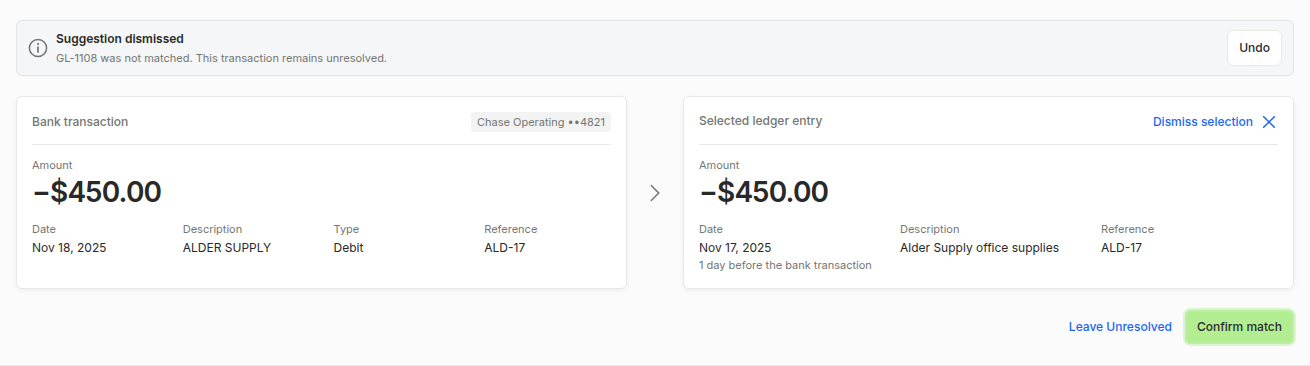
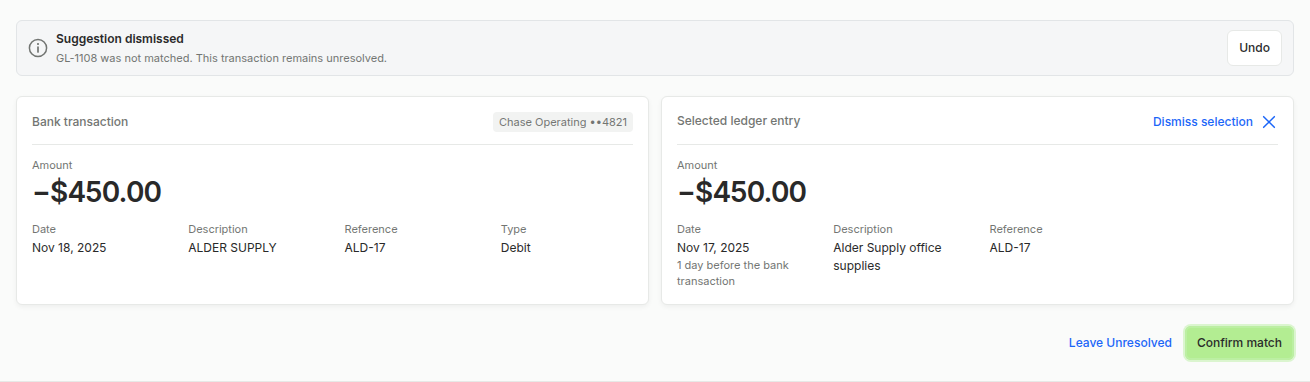
Remove the arrow between expanded-row cards and align their fields
The chevron column between the bank and ledger cards is gone in every
expanded state; the two cards sit 12 px apart. Side by side, record
cards share row tracks through a subgrid, so the amount, date,
description and reference line up across both cards, and the bank card
lists Reference before Type to match the ledger card. Stacked layouts
keep the source card first. Row expand and collapse chevrons are
unchanged.

Claude-Session: https://claude.ai/code/session_01SjmuwsjrTUXEVeGEdoK4rk

diff --git a/prototype/src/ui/CaseDetail.tsx b/prototype/src/ui/CaseDetail.tsx
@@ -33,8 +33,9 @@ const SOURCE_LABEL = { suggestion: 'from the suggestion', search: 'from search',
 
 /**
  * Expanded detail inside the register row (49:952, 38:6667, 38:7064, 51:1040): 20 px top and bottom, 16 px sides,
- * 20 px between the notice, the comparison and the action footer. The comparison is two 612 px cards with a 32 px
- * arrow column and 12 px gaps; the footer right-aligns Leave Unresolved (link) and the primary action.
+ * 20 px between the notice, the comparison and the action footer. The comparison is two equal cards 12 px apart
+ * (Figma's arrow column between them is removed at Yirang's request); the footer right-aligns Leave Unresolved
+ * (link) and the primary action.
  */
 export function CaseDetail({ recon, reviewCase: c, onCollapse, announce }: CaseDetailProps) {
   const { state, dispatch, setDraft } = recon
@@ -291,12 +292,12 @@ export function CaseDetail({ recon, reviewCase: c, onCollapse, announce }: CaseD
 
   const leftCard =
     origin.kind === 'bank' ? (
-      <Card labelledBy={`${idPrefix}-bank`} title="Bank transaction" chip={ACCOUNT.name}>
+      <Card record labelledBy={`${idPrefix}-bank`} title="Bank transaction" chip={ACCOUNT.name}>
         <Amount value={origin.amount} />
         <Fields fields={recordFields(origin, undefined)} />
       </Card>
     ) : (
-      <Card labelledBy={`${idPrefix}-ledger`} title="Ledger entry" chip={origin.entryId}>
+      <Card record labelledBy={`${idPrefix}-ledger`} title="Ledger entry" chip={origin.entryId}>
         <Amount value={origin.amount} />
         <Fields fields={recordFields(origin, undefined, [{ label: 'Counterparty', value: origin.counterparty }])} />
       </Card>
@@ -305,14 +306,14 @@ export function CaseDetail({ recon, reviewCase: c, onCollapse, announce }: CaseD
   let rightCard: React.ReactNode = null
   if (c.status === 'auto-matched' && c.ledger) {
     rightCard = (
-      <Card labelledBy={`${idPrefix}-auto`} title="Ledger entry" chip={c.ledger.entryId}>
+      <Card record labelledBy={`${idPrefix}-auto`} title="Ledger entry" chip={c.ledger.entryId}>
         <Amount value={c.ledger.amount} />
         <Fields fields={recordFields(c.ledger, c.bank, [{ label: 'Match status', value: 'Auto-matched · not confirmed' }])} />
       </Card>
     )
   } else if (c.status === 'suggested' && c.ledger) {
     rightCard = (
-      <Card labelledBy={`${idPrefix}-suggested`} title="Suggested ledger entry" chip={c.ledger.entryId} chipTone="ai">
+      <Card record labelledBy={`${idPrefix}-suggested`} title="Suggested ledger entry" chip={c.ledger.entryId} chipTone="ai">
         <Amount value={c.ledger.amount} />
         <Fields fields={recordFields(c.ledger, c.bank, [{ label: 'Match status', value: 'Suggested · not confirmed' }])} />
       </Card>
@@ -323,7 +324,7 @@ export function CaseDetail({ recon, reviewCase: c, onCollapse, announce }: CaseD
     const evidence = evidenceItem(c.outstanding.evidenceId)
     const category = TIMING_CATEGORIES.find((t) => t.value === c.outstanding!.category)?.label
     rightCard = (
-      <Card labelledBy={`${idPrefix}-evidence`} title="Outstanding evidence" chip={evidence?.reference}>
+      <Card record labelledBy={`${idPrefix}-evidence`} title="Outstanding evidence" chip={evidence?.reference}>
         <Amount value={evidence?.amount ?? 0} />
         <Fields
           fields={[
@@ -351,6 +352,7 @@ export function CaseDetail({ recon, reviewCase: c, onCollapse, announce }: CaseD
     if (draft.mode === 'selected' && selected) {
       rightCard = (
         <Card
+          record
           labelledBy={`${idPrefix}-selected`}
           title={`Selected ${otherNoun}`}
           headerAction={
@@ -467,9 +469,6 @@ export function CaseDetail({ recon, reviewCase: c, onCollapse, announce }: CaseD
       {notices.length > 0 && <div className={styles.notices}>{notices}</div>}
       <div className={styles.comparison}>
         {leftCard}
-        <div className={styles.arrow} aria-hidden="true">
-          <Icon name="chevron-right" size={24} />
-        </div>
         {rightCard}
       </div>
       {(primary || secondary || canLeave) && (
@@ -503,7 +502,7 @@ function MatchedCard({ idPrefix, ledger, bank }: { idPrefix: string; ledger: Led
   const created = !!ledger.generatedFrom
   const amount = Math.abs(ledger.amount)
   return (
-    <Card labelledBy={`${idPrefix}-matched`} title={created ? 'Created ledger entry' : 'Matched ledger entry'} chip={ledger.entryId}>
+    <Card record labelledBy={`${idPrefix}-matched`} title={created ? 'Created ledger entry' : 'Matched ledger entry'} chip={ledger.entryId}>
       <Amount value={ledger.amount} />
       <Fields fields={recordFields(ledger, bank, created ? [] : [{ label: 'Match status', value: 'Confirmed' }])} />
       {created && (

diff --git a/src/showcase/flags.ts b/src/showcase/flags.ts
@@ -18,6 +18,7 @@ export const CONFLICTS = [
   'Reconcile data. The Figma frames show an eight-transaction November (Stripe payout to Monthly bank service fee) with a $220 or $15 difference and "John Glasgow" as the user. The prototype uses the PRD dataset instead (24 records, $320 initial difference) and Maya, because the PRD takes precedence. Five of the Figma rows are the PRD\'s background pairs. The PRD treated them as already reviewed; at Yirang\'s request (2026-10-04) they are Auto-matched items in the main table that still need review, so all 24 records count toward progress and completion.',
   'Reconcile register heading and counts. The register is titled "Transactions" (Figma and Yirang\'s 2026-10-04 design) and every tab count is a record count over the 24 original records, derived from the current state; generated entries are never counted. Tabs, in the design\'s order: All (24), Auto-matched (10), Suggested (6), Unmatched (14), Confirmed, Outstanding. Unmatched counts every record not yet confirmed or documented apart from auto-matched ones, so a suggested pair is two unmatched records and Suggested is a subset of Unmatched (Yirang, 2026-10-04; the PRD splits them 6 / 8). Auto-matched records are not unmatched, but they block completion until confirmed or dismissed. The status filter dropdown is removed because the design has only the search field and the tabs.',
   'Auto-matched pairs (Yirang\'s design, 2026-10-04). The five PRD background pairs are Auto-matched cases in the main table, with a blue "Auto-matched" pill (link ink on a new light-blue fill, #E3ECFC, sampled from the design; green stays for user-approved matches). The design\'s link glyph is not in the Figma icon set, so the pill shows its label only. The expanded row reuses the suggested-match layout: a plain "Automatically matched · Awaiting your review" heading, bank card left, "Ledger entry" card right, and Leave Unresolved, Dismiss suggestion and Confirm match with the same behavior and Undo. Dismissing makes both records Unmatched and searchable. The design\'s bank text "STRIPE PAYOUT" and reference STR-1103 are not adopted: the PRD gives these pairs no references, so the fixture descriptions stay as they were.',
+  'Expanded-row comparison (51:1049) without the arrow, at Yirang\'s request (2026-10-04). Figma puts a 32 px chevron column between the bank and ledger cards; it is removed in every expanded state, and the two cards sit 12 px apart at equal widths. Side by side, the cards share row tracks (CSS subgrid), so the amount, date, description and reference start at the same height and column in both cards, and the bank card lists Reference before Type (with "—" when there is none) to match the ledger card\'s order. Fields sit in four columns when each card has room for four 104 px fields and in two otherwise. The row expand and collapse chevrons are unchanged.',
   'Cleared balance with auto-matched pairs. Only confirmed matches clear, so an unconfirmed auto-matched pair no longer counts as cleared: the cleared balance starts at the $100,000.00 opening balance instead of the PRD\'s $109,870.00 and rises as pairs are confirmed. Statement closing ($109,650.00), book balance ($109,970.00) and the $320.00 difference are unchanged, and the finish is the same ($109,650.00 cleared, $0.00 difference) with 21 Confirmed and 3 Outstanding. A save completed before this change is reopened on load, with every decision kept and the reopening recorded in history.',
   'Suggested-match ledger memos. GL-1101 reads "ACH Northstar Hosting" and GL-1105 "DELTA PAY receipt" instead of the PRD\'s "Northstar hosting" and "Delta receipt", so the two correct suggestions differ from their bank lines only by the shortened payee or one word, plus the 1-day date gap (Yirang\'s request, 2026-10-04). Amounts, dates, references and the deliberately wrong Alder/Birch suggestion are unchanged.',
   'Reconcile register columns. 49:617 has five columns; 28:8442 adds an Action column with an Undo link. The prototype keeps the Action column in every state so Undo always has the same place.',

diff --git a/prototype/src/ui/Detail.module.css b/prototype/src/ui/Detail.module.css
@@ -33,18 +33,12 @@
   color: var(--color-text-secondary);
 }
 
-/* Transaction comparison (51:1049): 612 | 12 | 32 arrow | 12 | 612. */
+/* Transaction comparison (51:1049): two cards 12 px apart. Figma's 32 px arrow column between them is removed at
+   Yirang's request (2026-10-04). Stacked by default; side by side from 760 px (see the end of this file). */
 .comparison {
-  display: grid;
-  grid-template-columns: minmax(0, 1fr) 32px minmax(0, 1fr);
-  gap: var(--spacing-12);
-  align-items: stretch;
-}
-
-.arrow {
   display: flex;
-  align-items: center;
-  justify-content: center;
+  flex-direction: column;
+  gap: var(--spacing-12);
 }
 
 /* Action footer (51:1102): right-aligned, 12 px gap. */
@@ -184,6 +178,11 @@
   font-size: var(--text-caption-size);
   line-height: var(--text-caption-line);
   color: var(--color-text-secondary);
+}
+
+/* Record cards keep empty columns (auto-fill), so stacked cards also put Date and Description in the same columns. */
+.recordCard > .fields:first-of-type {
+  grid-template-columns: repeat(auto-fill, minmax(104px, 1fr));
 }
 
 /* Header links (Search existing entries 38:7842, Dismiss selection) sit in the 20 px header row. */
@@ -381,15 +380,53 @@
 }
 
 
-/* ----- Narrower rows: the cards stack inside the expanded row, source transaction first ----- */
+/* ----- Comparison widths: stacked below 760 px (source transaction first), side by side above ----- */
 
-@container detail (max-width: 759px) {
+@container detail (min-width: 760px) {
+  /* Side by side, both cards span the same row tracks: header, rule, amount, two rows of fields, then anything
+     extra. Record cards take those tracks as a subgrid, so the amount and each shared field (date, description)
+     start at the same height in both cards. Forms and search span all the tracks without a subgrid. */
   .comparison {
-    grid-template-columns: minmax(0, 1fr);
+    display: grid;
+    grid-template-columns: repeat(2, minmax(0, 1fr));
+    grid-template-rows: repeat(5, auto) 1fr;
+    gap: 0 var(--spacing-12);
   }
 
-  .arrow svg {
-    transform: rotate(90deg);
+  .comparison > * {
+    grid-row: 1 / -1;
+  }
+
+  /* Margins instead of a row gap, so an empty track adds no space. A size container can't be a subgrid, and
+     record cards hold no form rows, so they drop the card container here. */
+  .recordCard {
+    container-type: normal;
+    display: grid;
+    grid-template-rows: subgrid;
+    gap: 0;
+  }
+
+  .recordCard > * + * {
+    margin-top: var(--spacing-12);
+  }
+
+  /* Fixed columns, so the same field sits in the same column in both cards. */
+  .recordCard > .fields:first-of-type {
+    grid-row: span 2;
+    grid-template-rows: subgrid;
+    grid-template-columns: repeat(2, minmax(0, 1fr));
+  }
+}
+
+/* Wide enough for four 104 px fields per card: one row of fields. */
+@container detail (min-width: 1052px) {
+  .comparison {
+    grid-template-rows: repeat(4, auto) 1fr;
+  }
+
+  .recordCard > .fields:first-of-type {
+    grid-row: span 1;
+    grid-template-columns: repeat(4, minmax(0, 1fr));
   }
 }
 

diff --git a/prototype/src/ui/recordFields.ts b/prototype/src/ui/recordFields.ts
@@ -21,9 +21,10 @@ export function dateNote(record: FinancialRecord, other?: FinancialRecord): stri
 export function recordFields(record: FinancialRecord, other?: FinancialRecord, extra: Field[] = []): Field[] {
   const base: Field[] = [{ label: 'Date', value: longDate(record.date), note: dateNote(record, other) }]
   if (record.kind === 'bank') {
+    // Reference third, as on the ledger side, so the fields both cards share sit in the same columns.
     base.push({ label: 'Description', value: record.description })
+    base.push({ label: 'Reference', value: record.reference ?? '—' })
     base.push({ label: 'Type', value: record.amount < 0 ? 'Debit' : 'Credit' })
-    if (record.reference) base.push({ label: 'Reference', value: record.reference })
   } else {
     base.push({ label: 'Description', value: record.description })
     base.push({ label: record.category ? 'Category' : 'Reference', value: record.category ?? record.reference ?? '—' })

diff --git a/prototype/src/ui/RecordCard.tsx b/prototype/src/ui/RecordCard.tsx
@@ -16,6 +16,7 @@ export function Card({
   children,
   labelledBy,
   rule = true,
+  record = false,
 }: {
   title: ReactNode
   chip?: ReactNode
@@ -25,9 +26,11 @@ export function Card({
   labelledBy?: string
   /** The 1 px rule under the header. The search card (38:6696) has none. */
   rule?: boolean
+  /** A record card (header, rule, amount, fields): side by side, its rows line up with the other card's. */
+  record?: boolean
 }) {
   return (
-    <section className={styles.card} aria-labelledby={labelledBy}>
+    <section className={[styles.card, record && styles.recordCard].filter(Boolean).join(' ')} aria-labelledby={labelledBy}>
       <div className={styles.cardHeader}>
         <div className={styles.cardTitleGroup}>
           {typeof title === 'string' ? (

diff --git a/docs/design-flags.md b/docs/design-flags.md
@@ -21,6 +21,7 @@ Conflicts in the Figma references, choices Figma does not document, accessibilit
 - Reconcile data. The Figma frames show an eight-transaction November (Stripe payout to Monthly bank service fee) with a $220 or $15 difference and "John Glasgow" as the user. The prototype uses the PRD dataset instead (24 records, $320 initial difference) and Maya, because the PRD takes precedence. Five of the Figma rows are the PRD's background pairs. The PRD treated them as already reviewed; at Yirang's request (2026-10-04) they are Auto-matched items in the main table that still need review, so all 24 records count toward progress and completion.
 - Reconcile register heading and counts. The register is titled "Transactions" (Figma and Yirang's 2026-10-04 design) and every tab count is a record count over the 24 original records, derived from the current state; generated entries are never counted. Tabs, in the design's order: All (24), Auto-matched (10), Suggested (6), Unmatched (14), Confirmed, Outstanding. Unmatched counts every record not yet confirmed or documented apart from auto-matched ones, so a suggested pair is two unmatched records and Suggested is a subset of Unmatched (Yirang, 2026-10-04; the PRD splits them 6 / 8). Auto-matched records are not unmatched, but they block completion until confirmed or dismissed. The status filter dropdown is removed because the design has only the search field and the tabs.
 - Auto-matched pairs (Yirang's design, 2026-10-04). The five PRD background pairs are Auto-matched cases in the main table, with a blue "Auto-matched" pill (link ink on a new light-blue fill, #E3ECFC, sampled from the design; green stays for user-approved matches). The design's link glyph is not in the Figma icon set, so the pill shows its label only. The expanded row reuses the suggested-match layout: a plain "Automatically matched · Awaiting your review" heading, bank card left, "Ledger entry" card right, and Leave Unresolved, Dismiss suggestion and Confirm match with the same behavior and Undo. Dismissing makes both records Unmatched and searchable. The design's bank text "STRIPE PAYOUT" and reference STR-1103 are not adopted: the PRD gives these pairs no references, so the fixture descriptions stay as they were.
+- Expanded-row comparison (51:1049) without the arrow, at Yirang's request (2026-10-04). Figma puts a 32 px chevron column between the bank and ledger cards; it is removed in every expanded state, and the two cards sit 12 px apart at equal widths. Side by side, the cards share row tracks (CSS subgrid), so the amount, date, description and reference start at the same height and column in both cards, and the bank card lists Reference before Type (with "—" when there is none) to match the ledger card's order. Fields sit in four columns when each card has room for four 104 px fields and in two otherwise. The row expand and collapse chevrons are unchanged.
 - Cleared balance with auto-matched pairs. Only confirmed matches clear, so an unconfirmed auto-matched pair no longer counts as cleared: the cleared balance starts at the $100,000.00 opening balance instead of the PRD's $109,870.00 and rises as pairs are confirmed. Statement closing ($109,650.00), book balance ($109,970.00) and the $320.00 difference are unchanged, and the finish is the same ($109,650.00 cleared, $0.00 difference) with 21 Confirmed and 3 Outstanding. A save completed before this change is reopened on load, with every decision kept and the reopening recorded in history.
 - Suggested-match ledger memos. GL-1101 reads "ACH Northstar Hosting" and GL-1105 "DELTA PAY receipt" instead of the PRD's "Northstar hosting" and "Delta receipt", so the two correct suggestions differ from their bank lines only by the shortened payee or one word, plus the 1-day date gap (Yirang's request, 2026-10-04). Amounts, dates, references and the deliberately wrong Alder/Birch suggestion are unchanged.
 - Reconcile register columns. 49:617 has five columns; 28:8442 adds an Action column with an Undo link. The prototype keeps the Action column in every state so Undo always has the same place.

diff --git a/prototype/README.md b/prototype/README.md
@@ -82,9 +82,10 @@ The PRD wins where it conflicts with Figma. The main departures, all listed in `
 
 - The Figma frames' eight-row November and "John Glasgow" are replaced by the PRD dataset and Maya. Tabs count records (24), not rows. The PRD's five background pairs are Auto-matched items in the main table that still need review (Yirang's design), so the cleared balance starts at $100,000.00. Unmatched counts every transaction not yet confirmed or documented, so it starts at 14 and includes the 6 records in suggested pairs (Suggested is a subset, listed in both tabs). The PRD splits them 6 / 8; this follows Yirang's request.
 - The GL-1101 and GL-1105 memos read "ACH Northstar Hosting" and "DELTA PAY receipt" (PRD: "Northstar hosting", "Delta receipt") so the two correct suggestions look like close matches, at Yirang's request.
-- The register heading is "Exceptions to review", and the five matched pairs sit in a separate section.
+- The register heading is "Transactions", following Figma and Yirang's design.
+- Expanded rows have no arrow between the bank and ledger cards (Figma draws a 32 px chevron column), at Yirang's request. Side by side, the two cards line up row by row so the amount, date, description and reference are at the same height and column.
 - Outstanding status, the outstanding form, search popover details, save errors, blocked completion, reopen and recovery are PRD design additions with no Figma frame. They reuse existing tokens and components and are marked in the flags.
 - The expense form says "Paid from" (PRD) where Figma says "Payment account".
 - Field errors use warning ink (proposed; Figma has no error state).
-- Narrower screens are a design addition: below 1100 px the sidebar becomes a menu drawer, and the balance cards, register rows, expanded-row cards, forms and actions reflow by the width the page has (container queries). Dropdowns open upward when there is no room below. At 1440 px nothing changes.
+- Narrower screens are a design addition: below 1100 px the sidebar becomes a menu drawer, and the balance cards, register rows, expanded-row cards, forms and actions reflow by the width the page has (container queries). Dropdowns open upward when there is no room below. At 1440 px the page is laid out as on desktop.
 - Icons are reconstructions of the Figma icon components, not original Campfire assets.

diff --git a/docs/figma-and-decisions.md b/docs/figma-and-decisions.md
@@ -45,6 +45,7 @@ The PRD sets behavior, data and calculations; Figma sets the visual design. Wher
 - **Data.** The Figma frames' eight-row November, their balances and "John Glasgow" are replaced by the PRD dataset and Maya. The PRD's 5 background pairs are Auto-matched items in the main table that need review (Yirang's design, 2026-10-04): 24 records in 16 cases.
 - **Counts and heading.** The register is titled "Transactions". Tabs count the 24 original records: All, Auto-matched (10), Suggested (6), Unmatched (14), Confirmed, Outstanding. Unmatched includes suggested pairs (Yirang's request; the PRD splits them 6 / 8) but not auto-matched ones, which block completion until reviewed. The status dropdown is gone (not in the design).
 - **Auto-matched.** Blue pill (link ink on #E3ECFC from the design; no link glyph, which Figma's icon set lacks). The expanded row reuses the suggested-match layout and actions. Unconfirmed pairs don't clear, so cleared starts at $100,000.00 (PRD: $109,870.00); the finish is unchanged.
+- **Card comparison.** No arrow between the bank and ledger cards in expanded rows (Figma 51:1049 has a 32 px chevron column), at Yirang's request. Side by side, the cards share row tracks so the amount, date, description and reference line up; the bank card lists Reference before Type to match the ledger card. Row expand and collapse chevrons are unchanged.
 - **Action column.** Kept in every state (it appears only in 28:8442) so the Undo link has a fixed place.
 - **Expense form.** "Paid from" (PRD) instead of "Payment account". Fields are the 34 px compact size drawn in that frame.
 - **Completed summary.** Records out of 24, created entries, and the outstanding adjustment with evidence, instead of "8 of 8 transactions".
